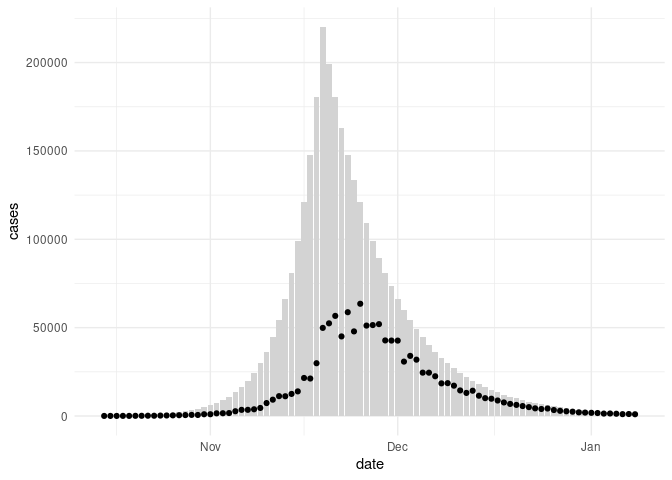
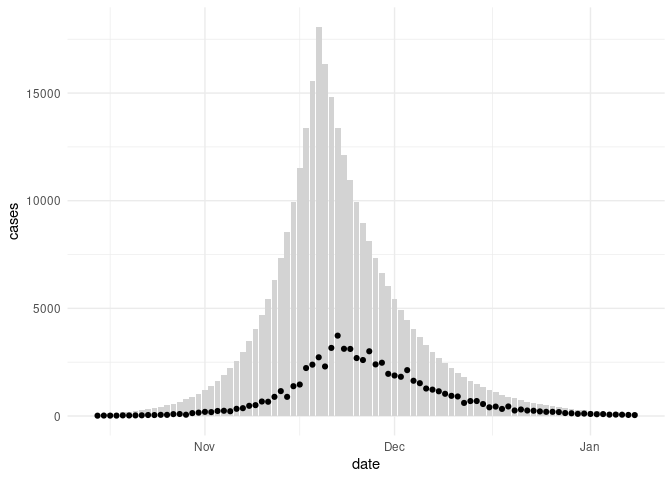
add hand made posterior check

diff --git a/README.md b/README.md
@@ -49,25 +49,25 @@ library(ggplot2)
 ``` r
 # apply a convolution of a log normal to a vector of observations
 weight_cmf <- function(x, ...) {
-   set.seed(x[1])
-   meanlog <- rnorm(1, 1.6, 0.2)
-   sdlog <- rnorm(1, 0.8, 0.1)
-   cmf <- cumsum(dlnorm(1:length(x), meanlog, sdlog)) -
-     cumsum(dlnorm(0:(length(x) - 1), meanlog, sdlog))
+  set.seed(x[1])
+   meanlog <- rnorm(1, 1.6, 0.1)
+   sdlog <- rnorm(1, 0.6, 0.025)
+   cmf <- (cumsum(dlnorm(1:length(x), meanlog, sdlog)) -
+     cumsum(dlnorm(0:(length(x) - 1), meanlog, sdlog)))
    conv <- sum(x * rev(cmf), na.rm = TRUE)
-   conv <- round(conv, 0)
+   conv <- rpois(1, round(conv, 0))
   return(conv)
 }
 
 obs <- data.table(
   region = "Glastonbury", 
-  cases = as.integer(c(10 * exp(0.2 * 1:50), 
-                       10 * exp(0.2 * 50) * exp(-0.1 * 1:50))),
+  cases = as.integer(c(10 * exp(0.15 * 1:50), 
+                       10 * exp(0.15 * 50) * exp(-0.1 * 1:50))),
   date = seq(as.Date("2020-10-01"), by = "days", length.out = 100))
 # roll over observed cases to produce a convolution
 obs <- obs[, deaths := frollapply(cases, 15, weight_cmf, align = "right")]
 obs <- obs[!is.na(deaths)]
-obs <- obs[, deaths := round(deaths * rnorm(.N, 0.4, 0.025), 0)]
+obs <- obs[, deaths := round(deaths * rnorm(.N, 0.25, 0.025), 0)]
 obs <- obs[deaths < 0, deaths := 0]
 ```
 
@@ -94,16 +94,16 @@ prep_obs <- prepare(obs, model = "convolution", location = "region",
                     primary = "cases", secondary = "deaths", max_convolution = 15)
 head(prep_obs, 10)
 #>        location       date time index init_obs cstart cmax primary secondary
-#>  1: Glastonbury 2020-10-15    0     1        1      1    1     200        41
-#>  2: Glastonbury 2020-10-16    1     2        1      1    2     245        52
-#>  3: Glastonbury 2020-10-17    2     3        1      1    3     299        47
-#>  4: Glastonbury 2020-10-18    3     4        1      1    4     365        73
-#>  5: Glastonbury 2020-10-19    4     5        1      1    5     447        60
-#>  6: Glastonbury 2020-10-20    5     6        1      1    6     545       100
-#>  7: Glastonbury 2020-10-21    6     7        1      1    7     666       115
-#>  8: Glastonbury 2020-10-22    7     8        1      1    8     814       161
-#>  9: Glastonbury 2020-10-23    8     9        1      1    9     994       148
-#> 10: Glastonbury 2020-10-24    9    10        1      1   10    1215       243
+#>  1: Glastonbury 2020-10-15    0     1        1      1    1      94        15
+#>  2: Glastonbury 2020-10-16    1     2        1      1    2     110        21
+#>  3: Glastonbury 2020-10-17    2     3        1      1    3     128        18
+#>  4: Glastonbury 2020-10-18    3     4        1      1    4     148        18
+#>  5: Glastonbury 2020-10-19    4     5        1      1    5     172        28
+#>  6: Glastonbury 2020-10-20    5     6        1      1    6     200        25
+#>  7: Glastonbury 2020-10-21    6     7        1      1    7     233        28
+#>  8: Glastonbury 2020-10-22    7     8        1      1    8     271        32
+#>  9: Glastonbury 2020-10-23    8     9        1      1    9     315        45
+#> 10: Glastonbury 2020-10-24    9    10        1      1   10     365        44
 ```
 
   - Fit the model assuming a Poisson observation model (*It is important
@@ -113,7 +113,7 @@ head(prep_obs, 10)
 <!-- end list -->
 
 ``` r
-fit <- idbrm(data = prep_obs)
+fit <- idbrm(data = prep_obs, family = poisson(link = "identity"))
 ```
 
   - Summarise fit.
@@ -134,9 +134,9 @@ summary(fit)
 #> 
 #> Population-Level Effects: 
 #>                 Estimate Est.Error l-95% CI u-95% CI Rhat Bulk_ESS Tail_ESS
-#> scale_Intercept    -0.56      0.00    -0.56    -0.55 1.00     5054     2936
-#> cmean_Intercept     1.50      0.00     1.49     1.51 1.00     1273     1642
-#> lcsd_Intercept     -0.05      0.01    -0.07    -0.03 1.00     1091     1382
+#> scale_Intercept    -1.16      0.00    -1.17    -1.15 1.00     2400     2336
+#> cmean_Intercept     1.52      0.03     1.46     1.58 1.00     1216     1190
+#> lcsd_Intercept      0.11      0.05     0.02     0.21 1.01     1199     1080
 #> 
 #> Samples were drawn using sampling(NUTS). For each parameter, Bulk_ESS
 #> and Tail_ESS are effective sample size measures, and Rhat is the potential
@@ -149,15 +149,16 @@ summary(fit)
 <!-- end list -->
 
 ``` r
-exp(posterior_summary(fit, "scale_Intercept"))
+exp(posterior_summary(fit, "scale_Intercept")) / 
+  (1 + exp(posterior_summary(fit, "scale_Intercept")))
 #>                    Estimate Est.Error      Q2.5     Q97.5
-#> b_scale_Intercept 0.5740631  1.001432 0.5724409 0.5756615
+#> b_scale_Intercept 0.2380844 0.5012257 0.2363043 0.2398308
 posterior_summary(fit, "cmean_Intercept")
-#>                   Estimate   Est.Error    Q2.5    Q97.5
-#> b_cmean_Intercept 1.500904 0.004249685 1.49294 1.509628
+#>                   Estimate  Est.Error     Q2.5   Q97.5
+#> b_cmean_Intercept 1.516847 0.03103077 1.462779 1.58491
 exp(posterior_summary(fit, "lcsd_Intercept"))
-#>                   Estimate Est.Error      Q2.5     Q97.5
-#> b_lcsd_Intercept 0.9523768  1.008974 0.9356122 0.9695588
+#>                  Estimate Est.Error     Q2.5   Q97.5
+#> b_lcsd_Intercept  1.11891  1.048587 1.020392 1.23047
 ```
 
   - Expose model stan functions.
@@ -168,8 +169,29 @@ exp(posterior_summary(fit, "lcsd_Intercept"))
 expose_functions(fit)
 ```
 
+  - Test central estimates returns something sensible compared to
+    observed data.
+
+<!-- end list -->
+
+``` r
+n_obs <- length(prep_obs$primary)
+pt_ests <-  summary(fit)$fixed[, 1]
+p_primary <- with(prep_obs, idbrms_convolve(primary, rep(pt_ests["scale_Intercept"], n_obs), 
+                                            rep(pt_ests["cmean_Intercept"], n_obs),
+                                            rep(pt_ests["lcsd_Intercept"], n_obs), 
+                                            cmax, index, cstart, init_obs))
+ggplot(prep_obs) + 
+  aes(x = date, y = secondary) +
+  geom_col(fill = "lightgrey") +
+  geom_point(aes(y = p_primary)) +
+  theme_minimal()
+```
+
+<img src="man/figures/README-unnamed-chunk-5-1.png" width="100%" />
+
   - Posterior predictive check. Runs without error but looks unlikely to
-    be correct.
+    be correct given check above.
 
 <!-- end list -->
 
